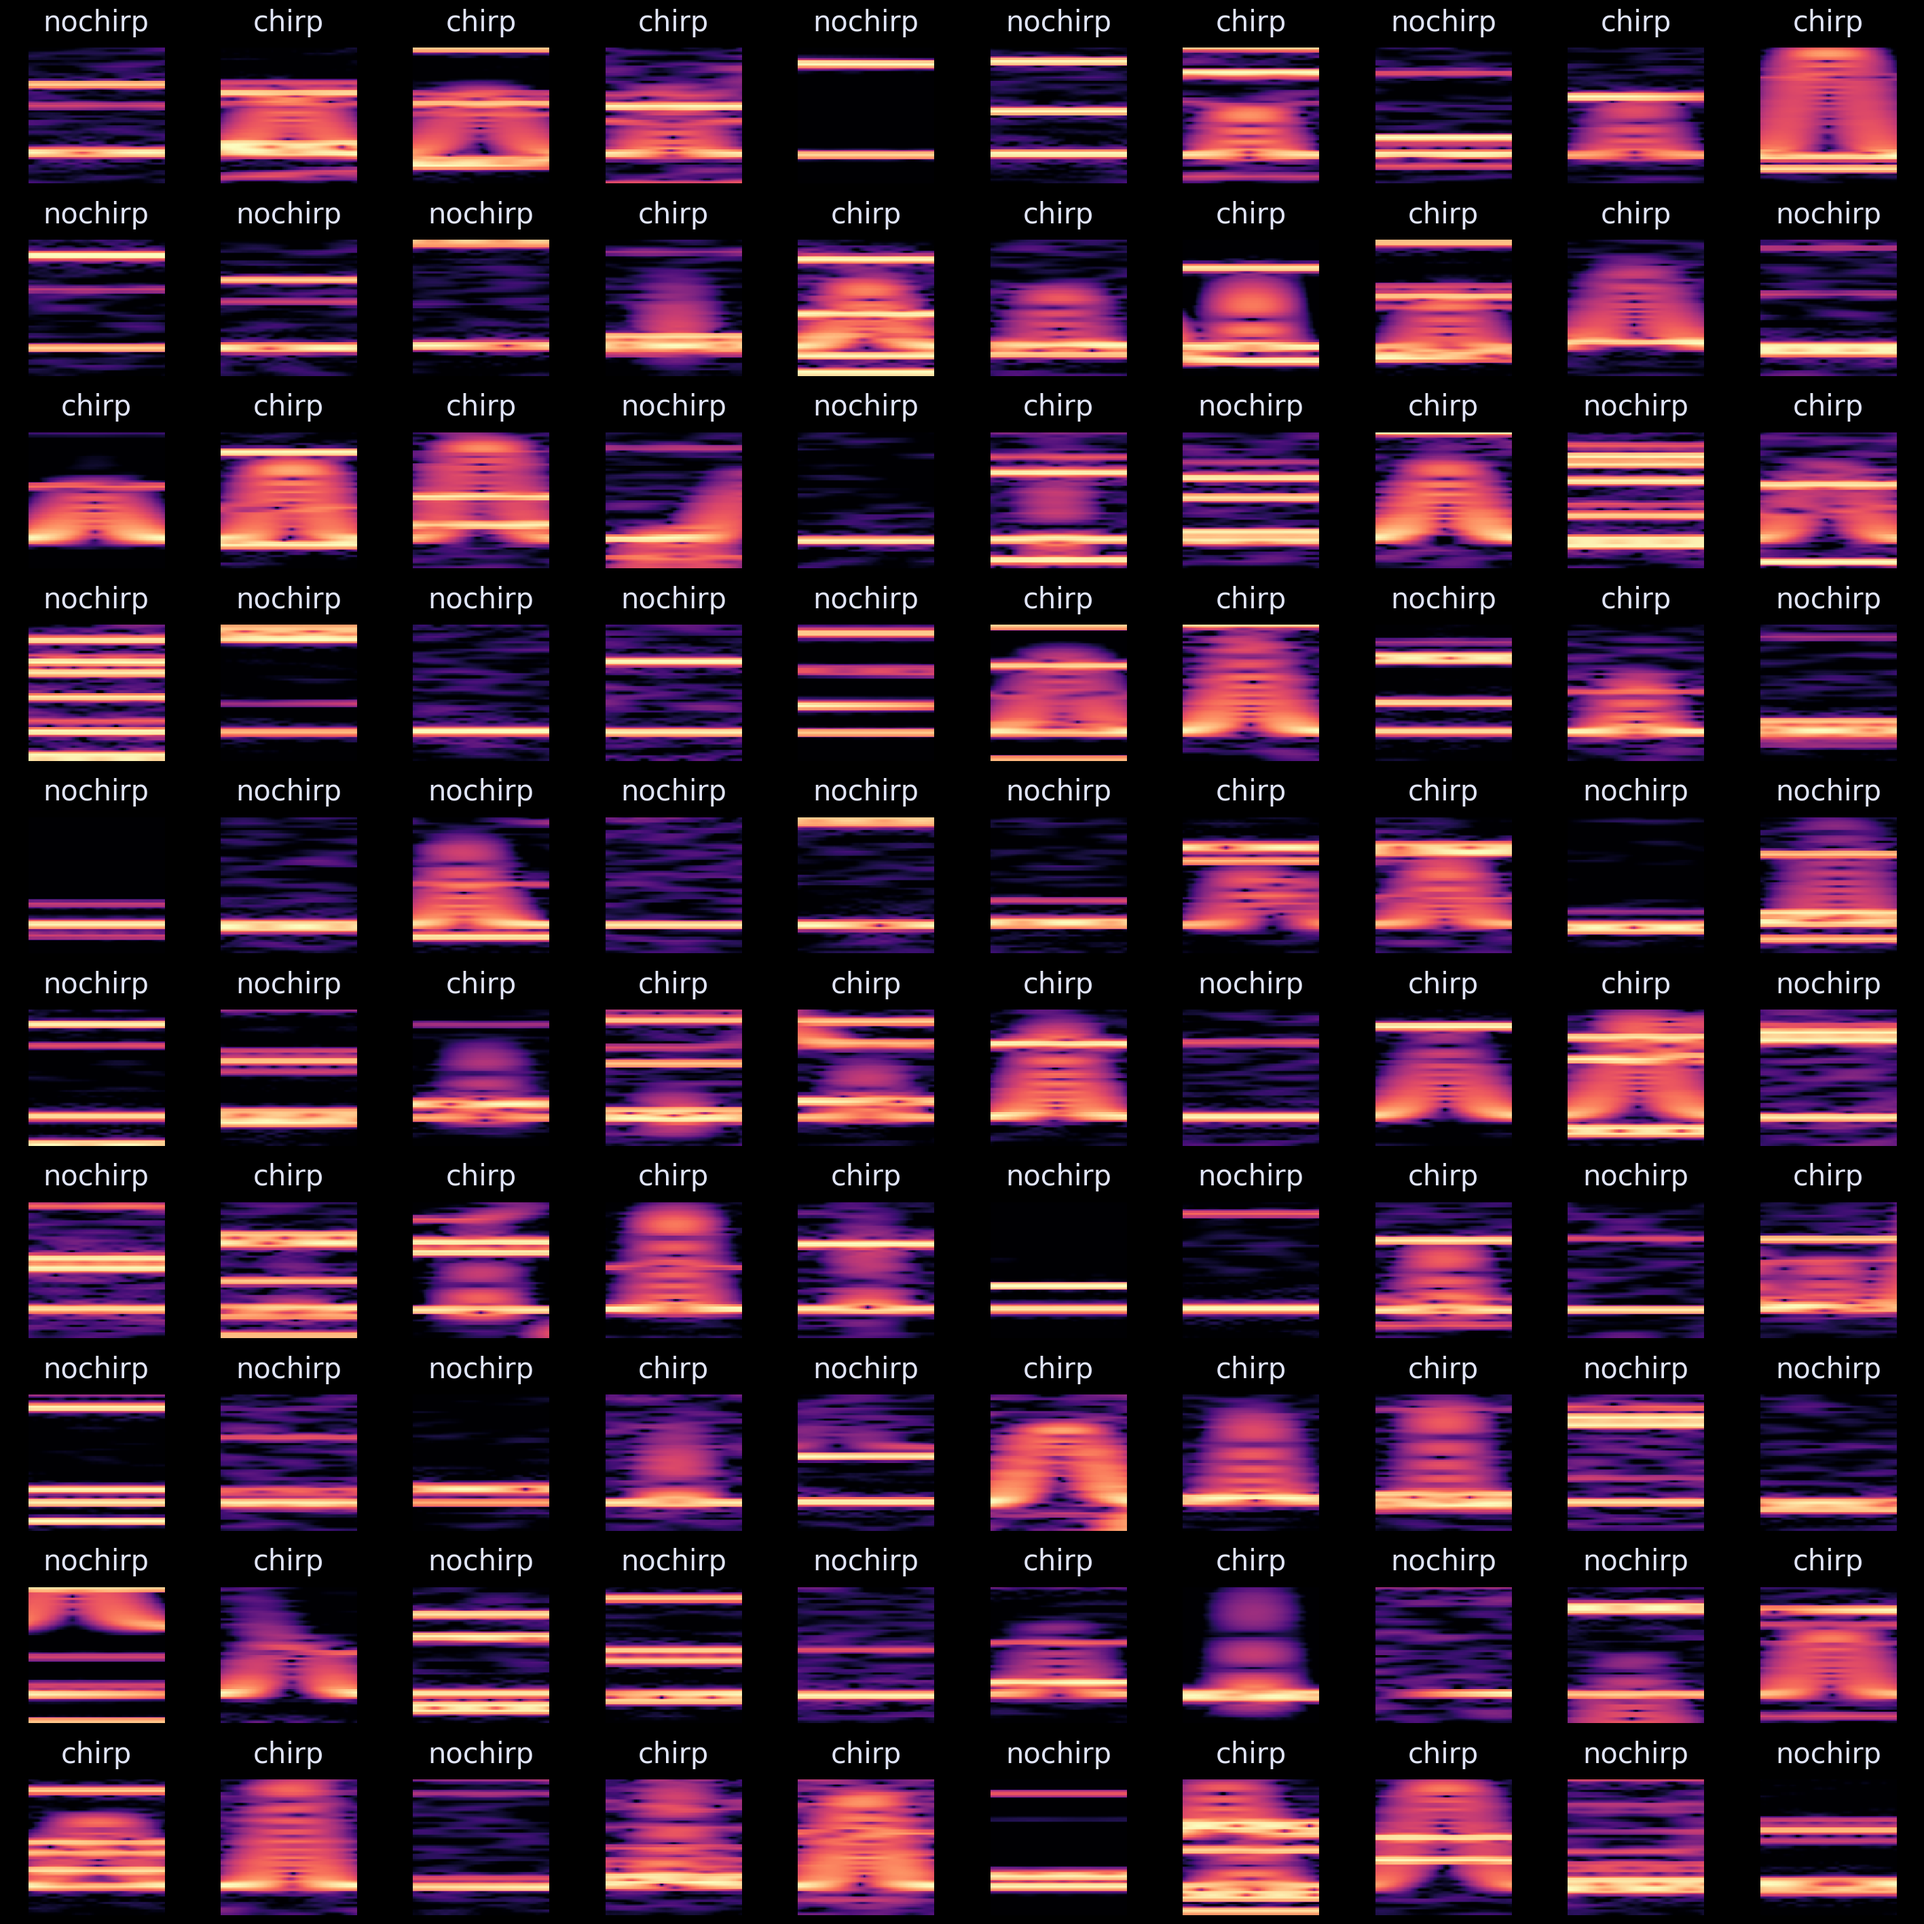
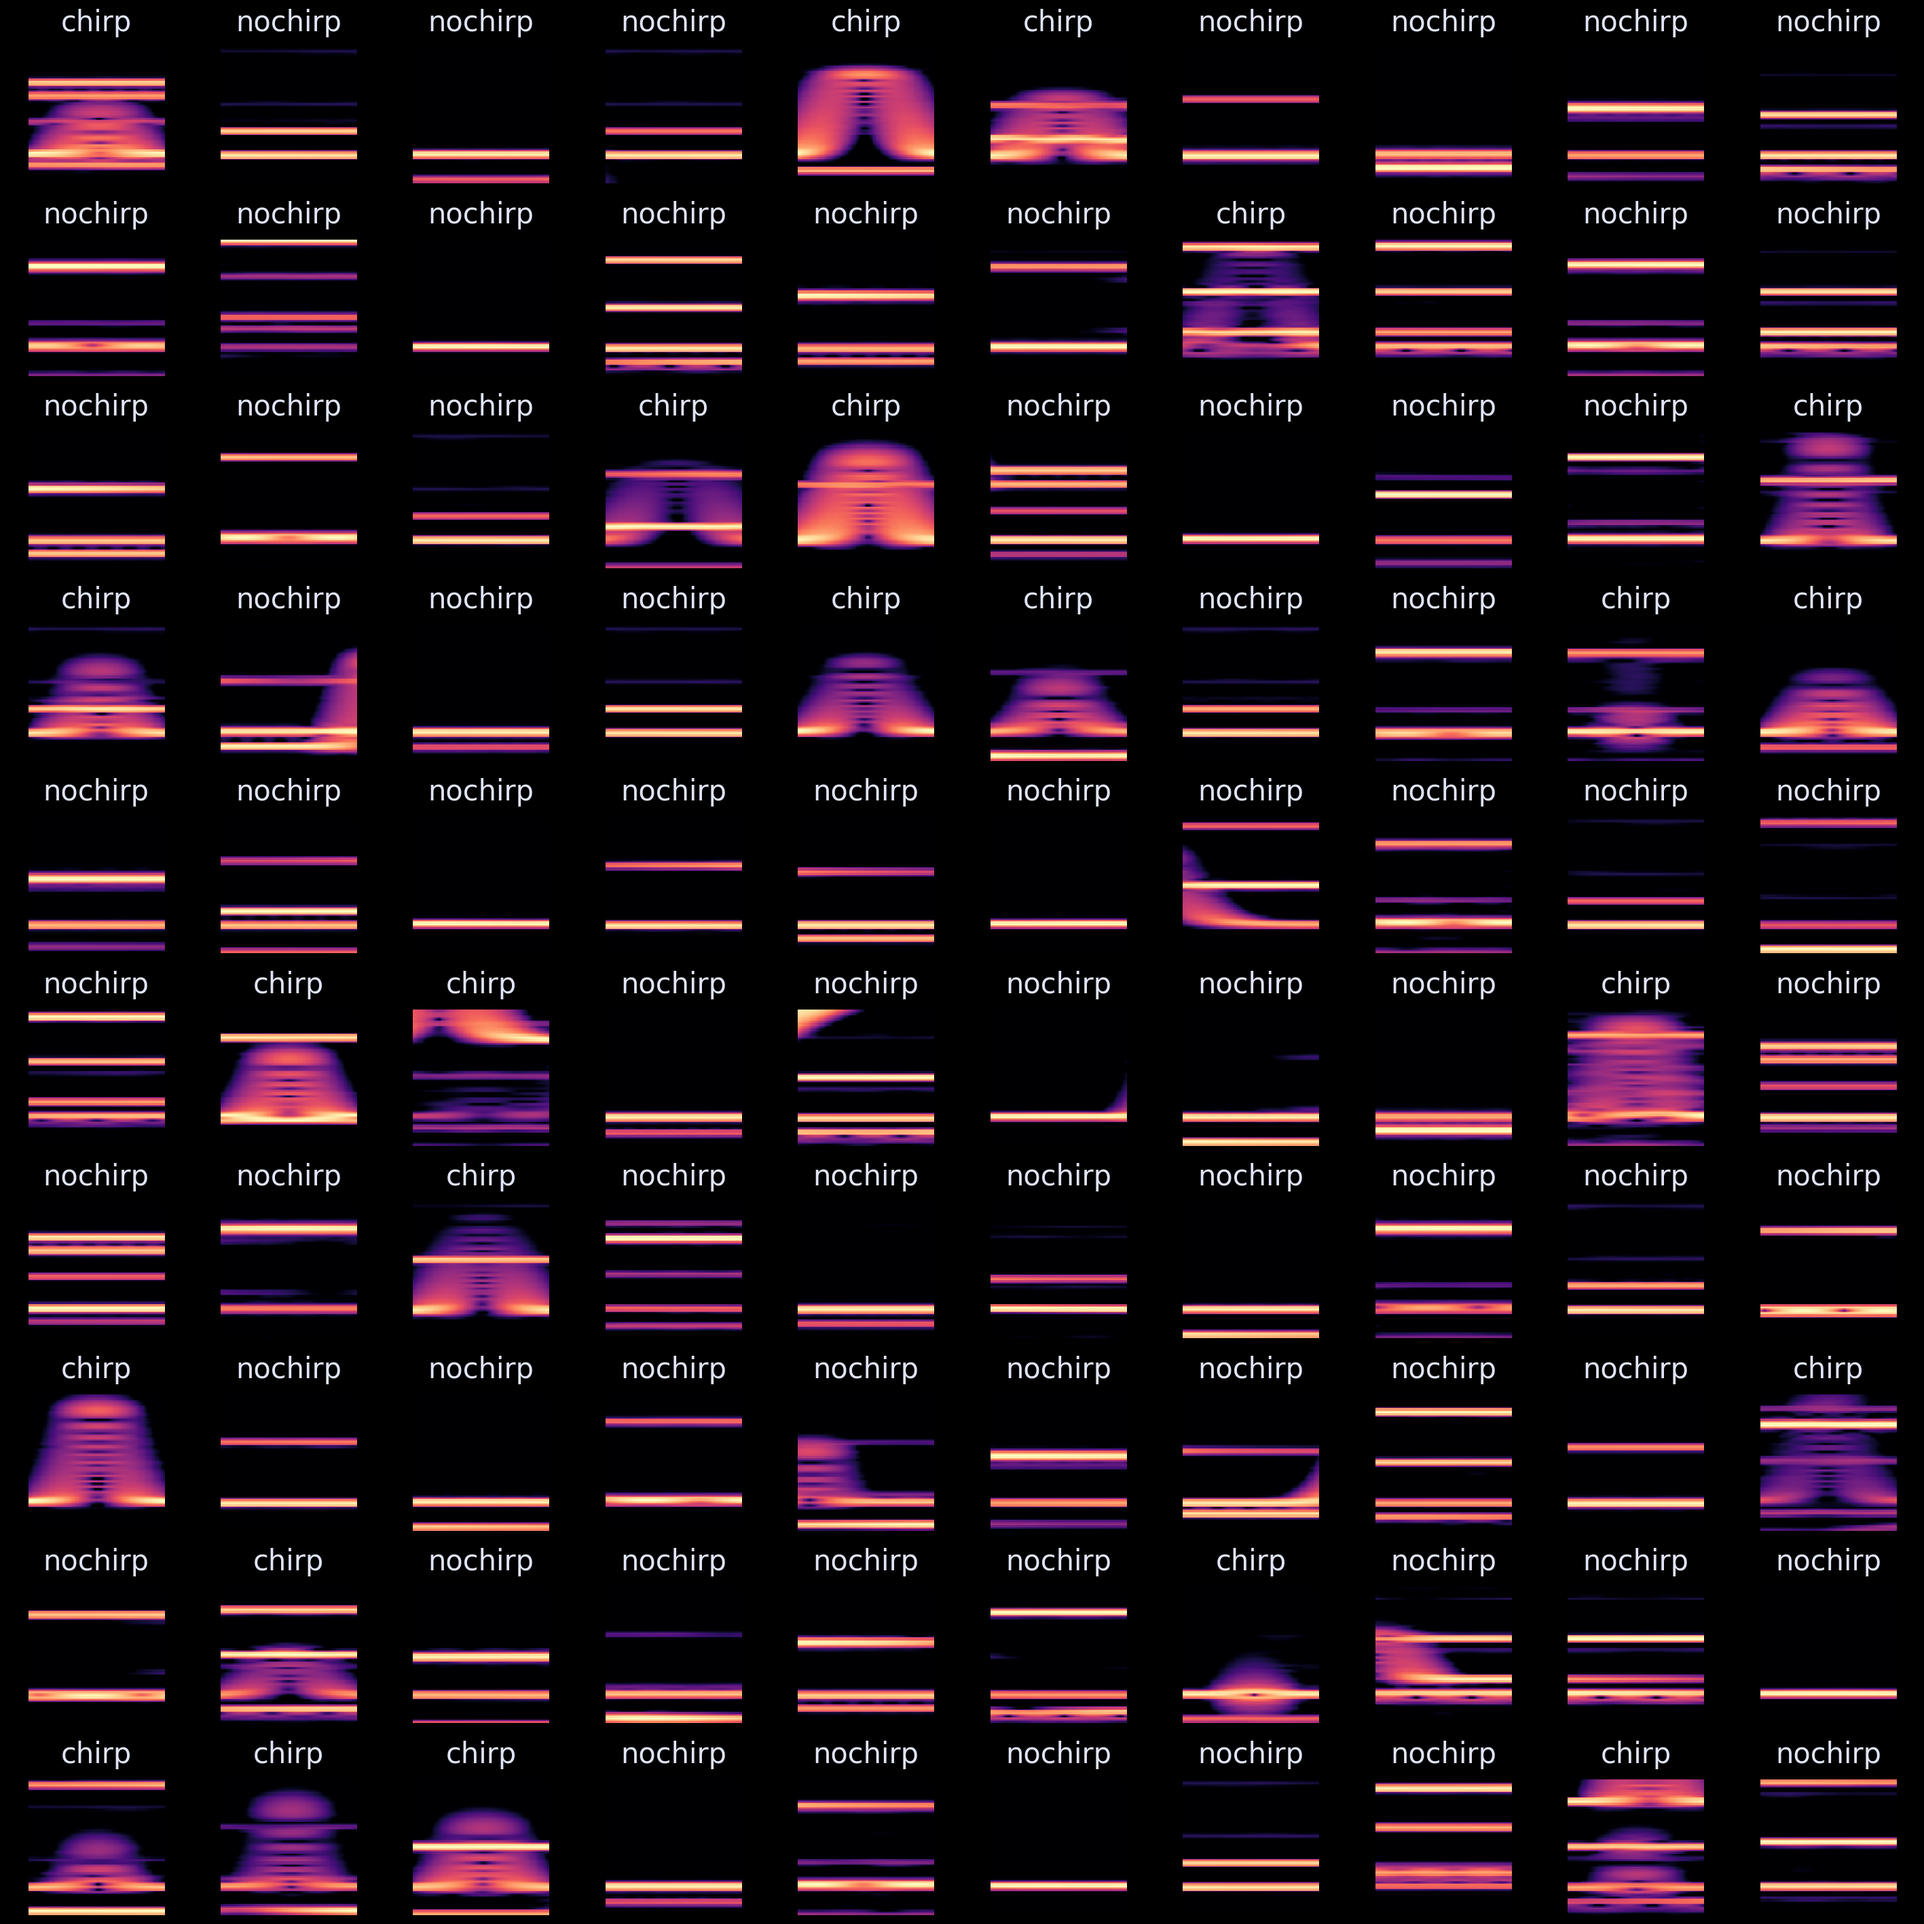
removed ugly 01 normalization

diff --git a/chirpdetector-cnn/detect_chirps.py b/chirpdetector-cnn/detect_chirps.py
@@ -222,9 +222,10 @@ def detect_chirps(
                 min_freq_idx:max_freq_idx, min_time_index:max_time_index
             ]
 
+            # this became redundant after scaling to 0 mean and 1 std
             # normalize snippet
             # still a tensor
-            snippet = norm_tensor(snippet)
+            # snippet = norm_tensor(snippet)
 
             # rezise to square as tensor
             snippet = resize_tensor_image(snippet, conf.img_size_px)
@@ -448,6 +449,15 @@ class Detector:
             # .. still a tensor
             spec = decibel(spec)
 
+            # cut off everything outside the upper frequency limit
+            # the spec is still a tensor
+            spec = spec[spec_freqs <= conf.upper_spectrum_limit, :]
+            spec_freqs = spec_freqs[spec_freqs <= conf.upper_spectrum_limit]
+
+            # normalize the spectrogram to zero mean and unit variance
+            # the spec is still a tensor
+            spec = (spec - spec.mean()) / spec.std()
+
             # make a detection data dict
             # the spec is still a tensor!
             detection_data = {
@@ -558,10 +568,10 @@ def main(path):
 
     # for trial of code
     # good chirp times for data: 2022-06-02-10_00
-    start = (3 * 60 * 60 + 6 * 60 + 43.5) * conf.samplerate
-    stop = start + 600 * conf.samplerate
-    data = DataSubset(data, start, stop)
-    data.track_times -= data.track_times[0]
+    # start = (3 * 60 * 60 + 6 * 60 + 43.5) * conf.samplerate
+    # stop = start + 600 * conf.samplerate
+    # data = DataSubset(data, start, stop)
+    # data.track_times -= data.track_times[0]
 
     data = interpolate(data)
     det = Detector(modelpath, data)

diff --git a/chirpdetector-cnn/extract_training_data.py b/chirpdetector-cnn/extract_training_data.py
@@ -19,6 +19,8 @@ ps = PlotStyle()
 device = check_device()
 logger.info(f"Using device {device}")
 
+# TODO: Rewrite data extraction to use the same 10 s steps as the detection loop
+
 
 class ChirpExtractor:
     def __init__(self, dataset):
@@ -53,6 +55,21 @@ class ChirpExtractor:
         window_start_indices = np.arange(
             first_index, last_index - self.window_size, self.stride, dtype=int
         )
+
+        # get spectrogram mean and std for normalization
+        # mu, std = self.data.fill_spec.mean(), self.data.fill_spec.std()
+
+        # cut off unused frequencies
+        self.data.fill_spec = self.data.fill_spec[
+            self.data.fill_freqs <= conf.upper_spectrum_limit, :
+        ]
+        self.data.fill_freqs = self.data.fill_freqs[
+            self.data.fill_freqs <= conf.upper_spectrum_limit
+        ]
+
+        # normalize spectrogram
+        mu, std = self.data.fill_spec.mean(), self.data.fill_spec.std()
+        self.data.fill_spec = (self.data.fill_spec - mu) / std
 
         for track_id in np.unique(self.data.ident_v):
             logger.info(f"Processing track {track_id}...")
@@ -95,7 +112,8 @@ class ChirpExtractor:
                 snippet = torch.from_numpy(snippet)
 
                 # Normalize snippet
-                snippet = norm_tensor(snippet)
+                # snippet = norm_tensor(snippet)
+                # snippet = (snippet - mu) / std
 
                 # Resize snippet
                 snippet = resize_tensor_image(snippet, conf.img_size_px)

diff --git a/chirpdetector-cnn/train_model.py b/chirpdetector-cnn/train_model.py
@@ -205,25 +205,25 @@ def main():
                 ]
             )
         )
-        # Plot losses
-        fig, ax = plt.subplots(1, 2, figsize=(30, 20))
-        ax[0].semilogy(diz_ep["train_loss_ep"], label="Train")
-        ax[0].semilogy(diz_ep["test_loss_ep"], label="Test")
-        ax[0].set_xlabel("Epoch")
-        ax[0].set_ylabel("Loss")
-        ax[0].legend()
-        ax[0].set_title("CNN loss")
+    # Plot losses
+    fig, ax = plt.subplots(1, 2, figsize=(30, 20))
+    ax[0].semilogy(diz_ep["train_loss_ep"], label="Train")
+    ax[0].semilogy(diz_ep["test_loss_ep"], label="Test")
+    ax[0].set_xlabel("Epoch")
+    ax[0].set_ylabel("Loss")
+    ax[0].legend()
+    ax[0].set_title("CNN loss")
 
-        # Plot accuracies
-        ax[1].semilogy(diz_ep["train_acc_ep"], label="Train")
-        ax[1].semilogy(diz_ep["test_acc_ep"], label="Test")
-        ax[1].set_xlabel("Epoch")
-        ax[1].set_ylabel("Accuracy")
-        ax[1].legend()
-        ax[1].set_title("CNN accuracy")
-        plt.show()
+    # Plot accuracies
+    ax[1].semilogy(diz_ep["train_acc_ep"], label="Train")
+    ax[1].semilogy(diz_ep["test_acc_ep"], label="Test")
+    ax[1].set_xlabel("Epoch")
+    ax[1].set_ylabel("Accuracy")
+    ax[1].legend()
+    ax[1].set_title("CNN accuracy")
+    plt.show()
 
-        # TODO: Add ROC curve
+    # TODO: Add ROC curve
 
 
 if __name__ == "__main__":
